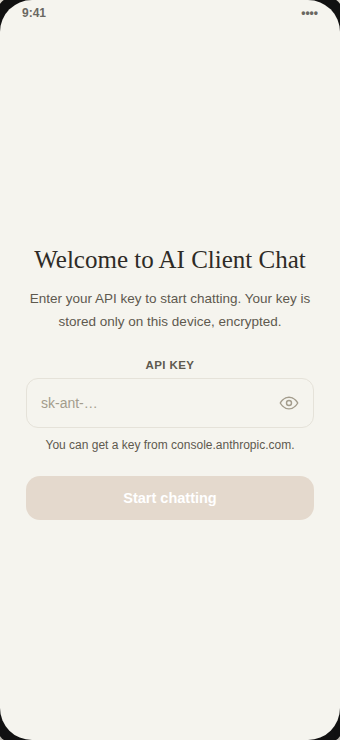
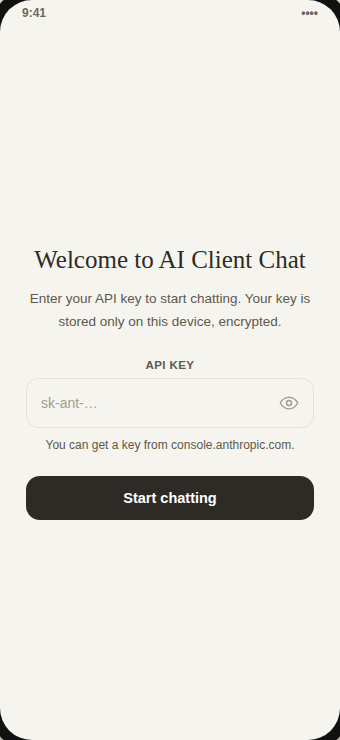
Recalibrate colors against real Claude app screenshots
The user shared 15 screenshots of the actual Claude Android app.
Corrects the palette to match: blue for interactive/selected state
(checkmarks, toggles, selected model text, slider thumb, links) instead
of orange, solid black (white in dark mode) pills for primary actions
(send/stop button, onboarding CTA, new-chat button) instead of orange,
and serif treatment reserved for top-level screen titles (Settings,
Chats) vs. sans-bold for transient sheet titles — all previously
guessed from memory since this sandbox has no way to browse the Play
Store listing.

Also adds a small clay-colored sparkle mark above the empty-state
greeting (a distinct shape from Anthropic's own logo) echoing the
colored mark shown above the greeting in the real app's new-chat
screen, moves the drawer's "New chat" action to a floating pill at the
bottom (matching the real layout), and neutralizes the selected-chat
row highlight instead of tinting it orange.

Re-rendered docs/screenshots/ mockups to match.

Claude-Session: https://claude.ai/code/session_01QtNZ5jix3AiUYChBnASR2c

Changed region(s): [[0.0588, 0.6216, 0.9412, 0.7149]]

diff --git a/docs/screenshots/design-mockup.html b/docs/screenshots/design-mockup.html
@@ -10,7 +10,7 @@
     --ink-900:#2E2B26; --ink-600:#5E594E; --outline-light:#E5E2D9;
     --charcoal-bg:#262624; --charcoal-surface:#30302E; --charcoal-sidebar:#1F1E1C;
     --bone-100:#F0EEE6; --bone-400:#B8B5AA; --outline-dark:#3D3B37;
-    --error:#C4432E;
+    --error:#C4432E; --link-blue:#3B68C4; --ink-pill:#2E2B26;
   }
   *{box-sizing:border-box;}
   body{
@@ -88,9 +88,12 @@
   .screen:not(.dark) .input-shell{ background:var(--cream-surface); border:1.5px solid var(--outline-light); }
   .screen.dark .input-shell{ background:var(--charcoal-surface); border:1.5px solid var(--outline-dark); }
   .textfield-text{ flex:1; font-size:14.5px; padding:9px 0; color:inherit; opacity:.45; }
-  .send-btn{ width:34px; height:34px; border-radius:50%; background:var(--clay-500); color:#fff; display:flex; align-items:center; justify-content:center; flex:0 0 auto; margin-bottom:2px; }
+  .send-btn{ width:34px; height:34px; border-radius:50%; background:var(--ink-pill); color:#fff; display:flex; align-items:center; justify-content:center; flex:0 0 auto; margin-bottom:2px; }
   .send-btn.disabled{ background:#DFD6C9; color:#fff; }
-  .screen.dark .send-btn.disabled{ background:#4A4741; }
+  .screen.dark .send-btn{ background:var(--bone-100); color:var(--charcoal-bg); }
+  .screen.dark .send-btn svg{ stroke:var(--charcoal-bg) !important; }
+  .screen.dark .send-btn.disabled{ background:#4A4741; color:#fff; }
+  .screen.dark .send-btn.disabled svg{ stroke:#fff !important; }
 
   .onboard{ padding:36px 26px; display:flex; flex-direction:column; justify-content:center; height:100%; }
   .onboard h1{ font-family:Georgia,"Iowan Old Style",serif; font-weight:400; font-size:25px; margin:0 0 14px; }
@@ -98,21 +101,27 @@
   .field{ border:1.5px solid var(--outline-light); border-radius:12px; padding:14px 14px; font-size:14px; display:flex; justify-content:space-between; align-items:center; color:#a39c8c; }
   .field-label{ font-size:11.5px; font-weight:600; color:var(--ink-600); margin-bottom:7px; text-transform:uppercase; letter-spacing:.4px; }
   .hint{ font-size:12px; color:var(--ink-600); margin-top:10px; }
-  .primary-btn{ margin-top:24px; background:var(--clay-500); color:#fff; text-align:center; padding:14px; border-radius:14px; font-weight:600; font-size:14.5px; }
-  .primary-btn.disabled{ background:#e4d9cd; color:#fff; }
+  .primary-btn{ margin-top:24px; background:var(--ink-pill); color:#fff; text-align:center; padding:14px; border-radius:14px; font-weight:600; font-size:14.5px; }
+  .primary-btn.disabled{ background:#ddd8cd; color:#fff; }
+  .sparkle-mark{ margin-bottom:16px; }
 
   .drawer-screen{ flex-direction:row; }
-  .drawer{ width:80%; height:100%; background:var(--cream-surface); display:flex; flex-direction:column; border-right:1px solid var(--outline-light); }
+  .drawer{ width:80%; height:100%; background:var(--cream-surface); display:flex; flex-direction:column; border-right:1px solid var(--outline-light); position:relative; }
   .drawer-scrim{ flex:1; background:rgba(0,0,0,.35); }
-  .drawer-top{ display:flex; justify-content:space-between; align-items:center; padding:16px 14px 6px; }
-  .new-chat-btn{ display:flex; align-items:center; gap:7px; color:var(--clay-600); font-weight:600; font-size:14px; }
-  .search-box{ margin:10px 14px 12px; border:1.5px solid var(--outline-light); border-radius:12px; padding:9px 12px; font-size:13px; color:#a39c8c; display:flex; align-items:center; gap:8px; }
+  .drawer-top{ display:flex; justify-content:space-between; align-items:center; padding:18px 16px 4px; }
+  .drawer-title{ font-family:Georgia,"Iowan Old Style",serif; font-weight:400; font-size:26px; }
+  .search-box{ margin:14px 14px 12px; border:1.5px solid var(--outline-light); border-radius:12px; padding:9px 12px; font-size:13px; color:#a39c8c; display:flex; align-items:center; gap:8px; }
   .conv-list{ flex:1; overflow:hidden; }
   .conv-item{ padding:12px 16px; font-size:13.5px; display:flex; justify-content:space-between; align-items:center; gap:8px; }
-  .conv-item.active{ background:rgba(204,120,92,.15); font-weight:600; }
+  .conv-item.active{ background:rgba(46,43,38,.06); font-weight:600; }
   .conv-item .conv-title{ display:flex; align-items:center; gap:7px; overflow:hidden; white-space:nowrap; text-overflow:ellipsis; }
   .conv-item .conv-title svg{ color:var(--clay-600); flex:0 0 auto; }
   .conv-item .dots{ opacity:.55; flex:0 0 auto; }
+  .fab-new-chat{
+    position:absolute; right:16px; bottom:20px; background:var(--ink-pill); color:#fff; border-radius:24px;
+    padding:12px 18px; display:flex; align-items:center; gap:8px; font-weight:600; font-size:14px;
+    box-shadow:0 6px 16px rgba(0,0,0,.2);
+  }
 
   .sheet-screen{ justify-content:flex-end; }
   .sheet-scrim{ flex:1; background:rgba(0,0,0,.35); }
@@ -122,7 +131,8 @@
   .model-row{ padding:14px 20px; display:flex; justify-content:space-between; align-items:center; border-top:1px solid var(--outline-light); }
   .model-row .name{ font-weight:600; font-size:14.5px; }
   .model-row .desc{ font-size:12px; color:var(--ink-600); margin-top:3px; }
-  .model-row .check{ color:var(--clay-500); }
+  .model-row .check{ color:var(--link-blue); }
+  .model-row.selected .name, .model-row.selected .desc{ color:var(--link-blue); }
 
   .settings-body{ padding:20px 22px; overflow:hidden; }
   .settings-section-title{ font-weight:600; font-size:14px; margin:0 0 10px; }
@@ -130,7 +140,8 @@
   .settings-row{ display:flex; justify-content:space-between; align-items:center; font-size:13.5px; }
   .chip-row{ display:flex; border:1.5px solid var(--outline-light); border-radius:12px; overflow:hidden; }
   .chip{ flex:1; text-align:center; padding:9px 0; font-size:12.5px; }
-  .chip.active{ background:var(--clay-500); color:#fff; font-weight:600; }
+  .chip.active{ background:var(--link-blue); color:#fff; font-weight:600; }
+  .settings-title{ font-family:Georgia,"Iowan Old Style",serif; font-weight:400; font-size:19px; }
   .danger-btn{ border:1.5px solid var(--error); color:var(--error); border-radius:12px; padding:11px; text-align:center; font-size:13px; font-weight:600; }
   .select-pill{ border:1.5px solid var(--outline-light); border-radius:12px; padding:10px 14px; display:inline-flex; align-items:center; gap:6px; font-size:13.5px; }
 
@@ -165,6 +176,7 @@
   <symbol id="i-refresh" viewBox="0 0 24 24"><polyline points="21 4 21 9 16 9"/><polyline points="3 20 3 15 8 15"/><path d="M4 9a8.1 8.1 0 0 1 13.7-3.5L21 9M3 15a8.1 8.1 0 0 0 13.7 3.5L20 15"/></symbol>
   <symbol id="i-code" viewBox="0 0 24 24"><polyline points="15 6 21 12 15 18"/><polyline points="9 18 3 12 9 6"/></symbol>
   <symbol id="i-error" viewBox="0 0 24 24"><circle cx="12" cy="12" r="9"/><line x1="12" y1="8" x2="12" y2="13"/><circle cx="12" cy="16.2" r="0.4"/></symbol>
+  <symbol id="i-sparkle" viewBox="0 0 108 108"><path d="M54,26 C55.5,41 43,50 26,54 C43,58 55.5,67 54,82 C52.5,67 65,58 82,54 C65,50 52.5,41 54,26 Z" fill="currentColor" stroke="none"/></symbol>
 </defs>
 </svg>
 
@@ -178,7 +190,7 @@
       <div class="field-label">API key</div>
       <div class="field"><span>sk-ant-…</span><svg class="icon"><use href="#i-eye"/></svg></div>
       <div class="hint">You can get a key from console.anthropic.com.</div>
-      <div class="primary-btn disabled">Start chatting</div>
+      <div class="primary-btn">Start chatting</div>
     </div>
   </div></div>
 </div>
@@ -192,7 +204,10 @@
       <div class="model-pill">Sonnet 5 <svg class="icon icon-sm"><use href="#i-chevron-down"/></svg></div>
       <div style="width:38px"></div>
     </div>
-    <div class="empty-state"><h2>What can I help with today?</h2></div>
+    <div class="empty-state"><div>
+      <svg class="icon icon-lg sparkle-mark" style="color:var(--clay-500);display:block;margin:0 auto 16px;"><use href="#i-sparkle"/></svg>
+      <h2>What can I help with today?</h2>
+    </div></div>
     <div class="inputbar"><div class="input-shell">
       <div class="icon-btn" style="width:32px;height:32px;opacity:.65"><svg class="icon icon-sm"><use href="#i-image"/></svg></div>
       <div class="textfield-text">Message AI Client Chat…</div>
@@ -251,7 +266,7 @@
     <div class="drawer">
       <div class="statusbar"><span>9:41</span><span>••••</span></div>
       <div class="drawer-top">
-        <div class="new-chat-btn"><svg class="icon icon-sm"><use href="#i-plus"/></svg>New chat</div>
+        <div class="drawer-title">Chats</div>
         <div class="icon-btn"><svg class="icon"><use href="#i-settings"/></svg></div>
       </div>
       <div class="search-box"><svg class="icon icon-sm"><use href="#i-search"/></svg>Search chats</div>
@@ -261,8 +276,8 @@
         <div class="conv-item"><span class="conv-title">Summarize ML research paper</span><svg class="icon icon-sm dots"><use href="#i-more"/></svg></div>
         <div class="conv-item"><span class="conv-title">Naming ideas for online store</span><svg class="icon icon-sm dots"><use href="#i-more"/></svg></div>
         <div class="conv-item"><span class="conv-title">Fixing an Android layout bug</span><svg class="icon icon-sm dots"><use href="#i-more"/></svg></div>
-        <div class="conv-item"><span class="conv-title">New chat</span><svg class="icon icon-sm dots"><use href="#i-more"/></svg></div>
       </div>
+      <div class="fab-new-chat"><svg class="icon icon-sm"><use href="#i-plus"/></svg>New chat</div>
     </div>
     <div class="drawer-scrim"></div>
   </div></div>
@@ -276,7 +291,7 @@
       <div class="sheet-handle"></div>
       <h3>Choose a model</h3>
       <div class="model-row"><div><div class="name">Opus 5</div><div class="desc">Most capable model for complex tasks and deep reasoning</div></div></div>
-      <div class="model-row"><div><div class="name">Sonnet 5</div><div class="desc">Balances speed and capability — great for most tasks</div></div><svg class="icon check"><use href="#i-check"/></svg></div>
+      <div class="model-row selected"><div><div class="name">Sonnet 5</div><div class="desc">Balances speed and capability — great for most tasks</div></div><svg class="icon check"><use href="#i-check"/></svg></div>
       <div class="model-row"><div><div class="name">Fable 5.1</div><div class="desc">Creative model for writing and natural conversation</div></div></div>
       <div class="model-row"><div><div class="name">Haiku 4.5</div><div class="desc">Fastest model for near-instant responses</div></div></div>
     </div>
@@ -289,12 +304,12 @@
     <div class="statusbar"><span>9:41</span><span>••••</span></div>
     <div class="topbar" style="padding:0 4px">
       <div class="icon-btn"><svg class="icon"><use href="#i-chevron-left"/></svg></div>
-      <div style="font-weight:600">Settings</div>
+      <div class="settings-title">Settings</div>
       <div style="width:38px"></div>
     </div>
     <div class="settings-body">
       <div class="settings-section-title">API key</div>
-      <div class="settings-row"><span>sk-ant…wxYZ</span><span style="color:var(--clay-600);font-weight:600">Delete</span></div>
+      <div class="settings-row"><span>sk-ant…wxYZ</span><span style="color:var(--error);font-weight:600">Delete</span></div>
       <div class="settings-divider"></div>
       <div class="settings-section-title">Default model</div>
       <div class="select-pill">Sonnet 5 <svg class="icon icon-sm"><use href="#i-chevron-down"/></svg></div>
@@ -308,7 +323,7 @@
       <div class="settings-divider"></div>
       <div class="settings-section-title">Text size</div>
       <div style="height:4px;border-radius:2px;background:var(--outline-light);position:relative;margin:14px 4px;">
-        <div style="position:absolute;left:0;top:-8px;width:20px;height:20px;border-radius:50%;background:var(--clay-500)"></div>
+        <div style="position:absolute;left:0;top:-8px;width:20px;height:20px;border-radius:50%;background:var(--link-blue)"></div>
       </div>
       <div class="settings-divider"></div>
       <div class="danger-btn">Delete all chats</div>

diff --git a/app/src/main/java/com/aiclient/chat/ui/chat/ChatScreen.kt b/app/src/main/java/com/aiclient/chat/ui/chat/ChatScreen.kt
@@ -55,11 +55,13 @@ import androidx.compose.ui.Alignment
 import androidx.compose.ui.Modifier
 import androidx.compose.ui.draw.clip
 import androidx.compose.ui.graphics.asImageBitmap
+import androidx.compose.ui.res.painterResource
 import androidx.compose.ui.res.stringResource
 import androidx.compose.ui.unit.dp
 import com.aiclient.chat.R
 import com.aiclient.chat.data.model.ChatMessage
 import com.aiclient.chat.data.model.Models
+import com.aiclient.chat.ui.theme.Clay500
 import kotlinx.coroutines.launch
 
 @OptIn(ExperimentalMaterial3Api::class)
@@ -215,6 +217,14 @@ fun ChatScreen(
 private fun EmptyState(modifier: Modifier = Modifier) {
     Box(modifier = modifier.fillMaxSize(), contentAlignment = Alignment.Center) {
         Column(horizontalAlignment = Alignment.CenterHorizontally) {
+            Icon(
+                painter = painterResource(R.drawable.ic_sparkle),
+                contentDescription = null,
+                tint = Clay500,
+                modifier = Modifier
+                    .size(28.dp)
+                    .padding(bottom = 16.dp),
+            )
             Text(
                 stringResource(R.string.empty_state_greeting),
                 style = MaterialTheme.typography.headlineMedium,
@@ -295,9 +305,14 @@ private fun ChatInputBar(
                         onClick = onStop,
                         modifier = Modifier
                             .size(44.dp)
-                            .clip(CircleShape),
+                            .clip(CircleShape)
+                            .background(MaterialTheme.colorScheme.inverseSurface),
                     ) {
-                        Icon(Icons.Outlined.Stop, contentDescription = stringResource(R.string.stop_generating))
+                        Icon(
+                            Icons.Outlined.Stop,
+                            contentDescription = stringResource(R.string.stop_generating),
+                            tint = MaterialTheme.colorScheme.inverseOnSurface,
+                        )
                     }
                 } else {
                     IconButton(
@@ -306,12 +321,12 @@ private fun ChatInputBar(
                         modifier = Modifier
                             .size(44.dp)
                             .clip(CircleShape)
-                            .background(MaterialTheme.colorScheme.primary),
+                            .background(MaterialTheme.colorScheme.inverseSurface),
                     ) {
                         Icon(
                             Icons.Outlined.ArrowUpward,
                             contentDescription = stringResource(R.string.send),
-                            tint = MaterialTheme.colorScheme.onPrimary,
+                            tint = MaterialTheme.colorScheme.inverseOnSurface,
                         )
                     }
                 }

diff --git a/app/src/main/java/com/aiclient/chat/ui/chat/ModelPickerSheet.kt b/app/src/main/java/com/aiclient/chat/ui/chat/ModelPickerSheet.kt
@@ -36,6 +36,8 @@ fun ModelPickerSheet(
         )
         Column(modifier = Modifier.padding(bottom = 24.dp)) {
             Models.AVAILABLE.forEach { model ->
+                val isSelected = model.id == selectedModel
+                val emphasisColor = if (isSelected) MaterialTheme.colorScheme.primary else MaterialTheme.colorScheme.onSurfaceVariant
                 Row(
                     modifier = Modifier
                         .fillMaxWidth()
@@ -44,14 +46,14 @@ fun ModelPickerSheet(
                     verticalAlignment = Alignment.CenterVertically,
                 ) {
                     Column(modifier = Modifier.weight(1f)) {
-                        Text(model.displayName, style = MaterialTheme.typography.titleMedium)
                         Text(
-                            model.description,
-                            style = MaterialTheme.typography.bodyMedium,
-                            color = MaterialTheme.colorScheme.onSurfaceVariant,
+                            model.displayName,
+                            style = MaterialTheme.typography.titleMedium,
+                            color = if (isSelected) MaterialTheme.colorScheme.primary else MaterialTheme.colorScheme.onSurface,
                         )
+                        Text(model.description, style = MaterialTheme.typography.bodyMedium, color = emphasisColor)
                     }
-                    if (model.id == selectedModel) {
+                    if (isSelected) {
                         Icon(Icons.Outlined.Check, contentDescription = null, tint = MaterialTheme.colorScheme.primary)
                     }
                 }

diff --git a/app/src/main/java/com/aiclient/chat/ui/theme/Theme.kt b/app/src/main/java/com/aiclient/chat/ui/theme/Theme.kt
@@ -15,11 +15,14 @@ import androidx.compose.ui.platform.LocalContext
 import androidx.compose.ui.platform.LocalView
 import androidx.core.view.WindowCompat
 
+// Claude's real app reserves the clay/orange for its brand mark and uses a
+// plain blue for interactive/selected state (checkmarks, toggles, links),
+// with solid black (or white, in dark mode) pills for primary actions.
 private val LightColors = lightColorScheme(
-    primary = Clay500,
+    primary = LinkBlue,
     onPrimary = CreamSurface,
-    primaryContainer = Clay500.copy(alpha = 0.14f),
-    onPrimaryContainer = Clay700,
+    primaryContainer = LinkBlue.copy(alpha = 0.12f),
+    onPrimaryContainer = LinkBlue,
     secondary = Ink600,
     background = CreamBg,
     onBackground = Ink900,
@@ -29,13 +32,15 @@ private val LightColors = lightColorScheme(
     onSurfaceVariant = Ink600,
     outline = OutlineLight,
     error = ErrorRed,
+    inverseSurface = Ink900,
+    inverseOnSurface = CreamSurface,
 )
 
 private val DarkColors = darkColorScheme(
-    primary = Clay500,
+    primary = LinkBlueDark,
     onPrimary = CharcoalBg,
-    primaryContainer = Clay500.copy(alpha = 0.22f),
-    onPrimaryContainer = Bone100,
+    primaryContainer = LinkBlueDark.copy(alpha = 0.22f),
+    onPrimaryContainer = LinkBlueDark,
     secondary = Bone400,
     background = CharcoalBg,
     onBackground = Bone100,
@@ -45,6 +50,8 @@ private val DarkColors = darkColorScheme(
     onSurfaceVariant = Bone400,
     outline = OutlineDark,
     error = ErrorRed,
+    inverseSurface = Bone100,
+    inverseOnSurface = CharcoalBg,
 )
 
 enum class AppThemeMode { SYSTEM, LIGHT, DARK }

diff --git a/app/src/main/java/com/aiclient/chat/ui/chat/ConversationDrawer.kt b/app/src/main/java/com/aiclient/chat/ui/chat/ConversationDrawer.kt
@@ -44,6 +44,7 @@ import androidx.compose.ui.text.font.FontWeight
 import androidx.compose.ui.unit.dp
 import com.aiclient.chat.R
 import com.aiclient.chat.data.model.Conversation
+import com.aiclient.chat.ui.theme.Clay600
 
 @Composable
 fun ConversationDrawer(
@@ -121,7 +122,7 @@ private fun ConversationRow(
     var confirmDelete by remember { mutableStateOf(false) }
 
     Surface(
-        color = if (selected) MaterialTheme.colorScheme.primaryContainer else MaterialTheme.colorScheme.surface,
+        color = if (selected) MaterialTheme.colorScheme.onBackground.copy(alpha = 0.06f) else MaterialTheme.colorScheme.surface,
         onClick = onClick,
         modifier = Modifier.fillMaxWidth(),
     ) {
@@ -137,7 +138,7 @@ private fun ConversationRow(
                         Icons.Outlined.PushPin,
                         contentDescription = null,
                         modifier = Modifier.padding(end = 6.dp),
-                        tint = MaterialTheme.colorScheme.primary,
+                        tint = Clay600,
                     )
                 }
                 Text(

diff --git a/app/src/main/java/com/aiclient/chat/ui/onboarding/OnboardingScreen.kt b/app/src/main/java/com/aiclient/chat/ui/onboarding/OnboardingScreen.kt
@@ -12,6 +12,7 @@ import androidx.compose.material.icons.Icons
 import androidx.compose.material.icons.outlined.Visibility
 import androidx.compose.material.icons.outlined.VisibilityOff
 import androidx.compose.material3.Button
+import androidx.compose.material3.ButtonDefaults
 import androidx.compose.material3.Icon
 import androidx.compose.material3.IconButton
 import androidx.compose.material3.MaterialTheme
@@ -81,6 +82,10 @@ fun OnboardingScreen(onApiKeySubmitted: (String) -> Unit) {
         Button(
             onClick = { onApiKeySubmitted(apiKey.trim()) },
             enabled = apiKey.isNotBlank(),
+            colors = ButtonDefaults.buttonColors(
+                containerColor = MaterialTheme.colorScheme.inverseSurface,
+                contentColor = MaterialTheme.colorScheme.inverseOnSurface,
+            ),
             modifier = Modifier
                 .fillMaxWidth()
                 .align(Alignment.CenterHorizontally),

diff --git a/app/src/main/java/com/aiclient/chat/ui/settings/SettingsScreen.kt b/app/src/main/java/com/aiclient/chat/ui/settings/SettingsScreen.kt
@@ -76,7 +76,9 @@ fun SettingsScreen(viewModel: SettingsViewModel, onClearAllConversations: () -> 
             if (uiState.hasApiKey) {
                 Row(verticalAlignment = androidx.compose.ui.Alignment.CenterVertically) {
                     Text(uiState.maskedApiKey, modifier = Modifier.weight(1f))
-                    TextButton(onClick = { viewModel.clearApiKey() }) { Text(stringResource(R.string.delete)) }
+                    TextButton(onClick = { viewModel.clearApiKey() }) {
+                        Text(stringResource(R.string.delete), color = MaterialTheme.colorScheme.error)
+                    }
                 }
             } else {
                 OutlinedTextField(

diff --git a/app/src/main/java/com/aiclient/chat/ui/theme/Color.kt b/app/src/main/java/com/aiclient/chat/ui/theme/Color.kt
@@ -24,3 +24,8 @@ val Bone400 = Color(0xFFB8B5AA)
 val OutlineDark = Color(0xFF3D3B37)
 
 val ErrorRed = Color(0xFFC4432E)
+
+// Selection/interactive accent (checkmarks, toggles, links) — Claude's real
+// app uses blue here, reserving the clay/orange for the brand mark only.
+val LinkBlue = Color(0xFF3B68C4)
+val LinkBlueDark = Color(0xFF8AB4F8)
